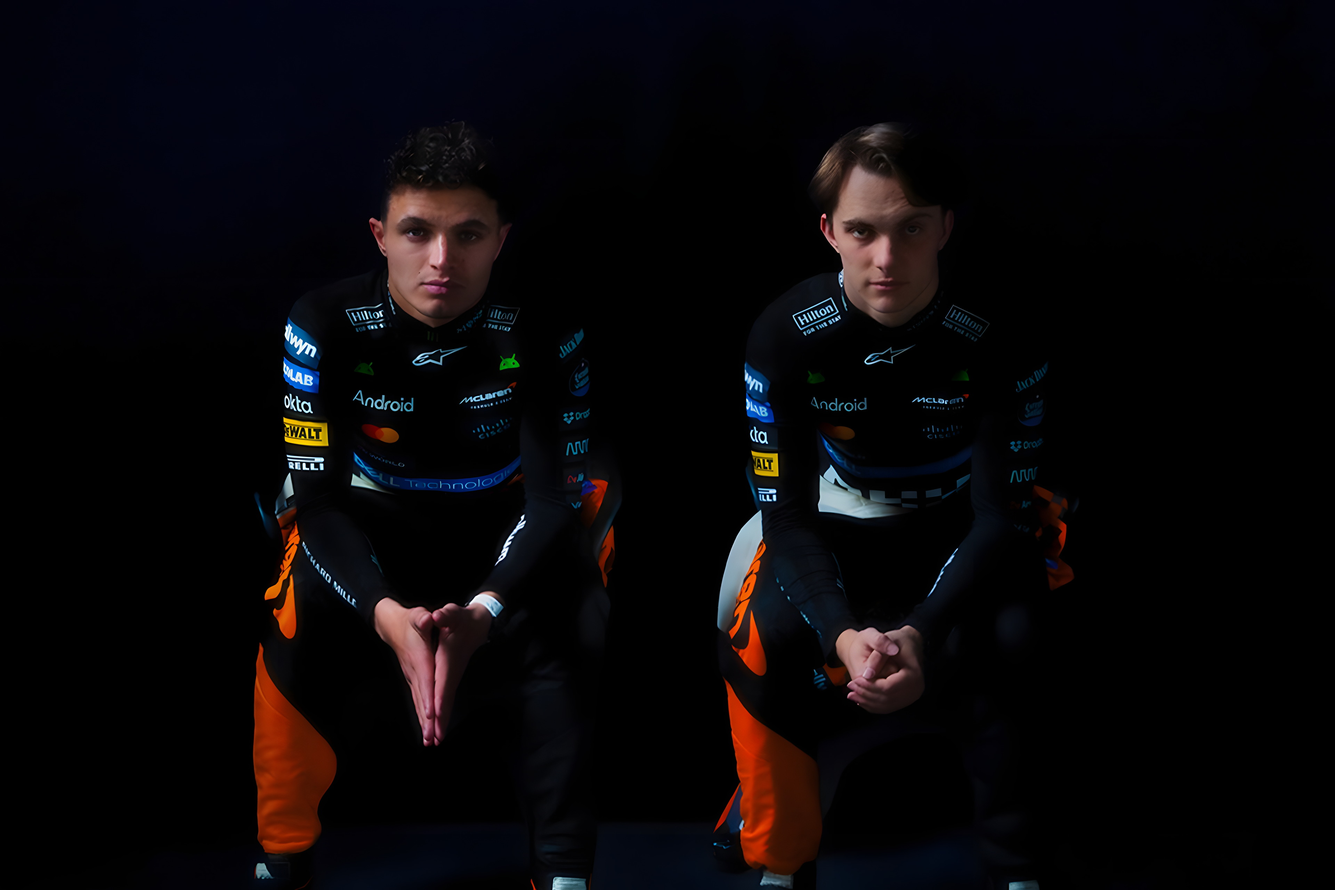
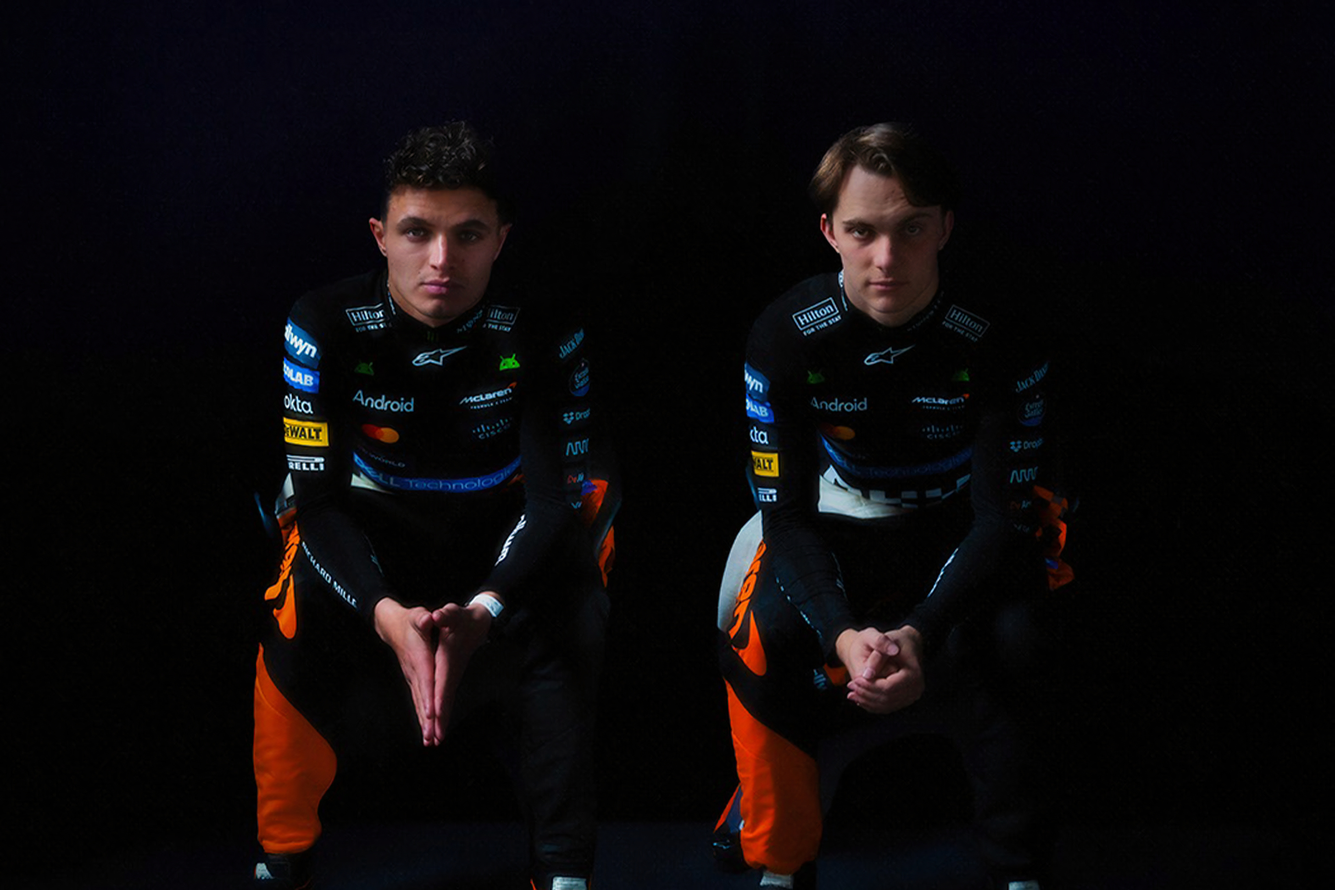
Restore the McLaren wallpapers so a full panel stays sharp.
The same seven shots are cleaned with Upscayl's Jaypeg model and saved as high-quality JPEGs. 01, 04, 05, and 06 are twice the original size. 02, 03, and 07 stay at their original size.

diff --git a/README.md b/README.md
@@ -43,6 +43,6 @@ omarchy theme update
 
 That pulls every theme you installed from git. When Papaya is the active theme, the hook refreshes the desktop from this repo. New wallpapers stay on disk. The current wallpaper is left where it is.
 
-Wallpapers 01, 04, 05, and 06 are upscaled with [Upscayl](https://upscayl.org/) so they cover a 2880×1920 panel. The other three were already larger than that.
+All seven wallpapers are the same McLaren shots, restored with [Upscayl](https://upscayl.org/) so the JPEG softness is cleaned up and a 2880×1920 panel is covered. 01, 04, 05, and 06 are twice the original size. 02, 03, and 07 stay at their original size.
 
 `colors.toml` is the palette. Omarchy Quattro builds the terminal, editor, shell, and lock screen from it. Active window borders run from deep papaya `#c45a00` into `#ff8000`. `chromium.theme` is shipped on purpose: the generated file would be the carbon background, and Chrome treats that as a blue-tinted seed, so the address bar stays blue. `shell.controls.toml` is merged on top when the theme is applied: idle controls are carbon with a papaya border, and hover, focus, and the chosen control are a light papaya wash (`selected-fill-alpha` 0.22) with that same border. `shell.lock.toml` is the lock screen: a carbon field, a papaya border that brightens while typing, and rose for a wrong password. The prompt in `starship.toml` is white for the path and git status, papaya for the branch and the chevron, and rose for a failed command. Do not commit other generated app configs into this repo.
